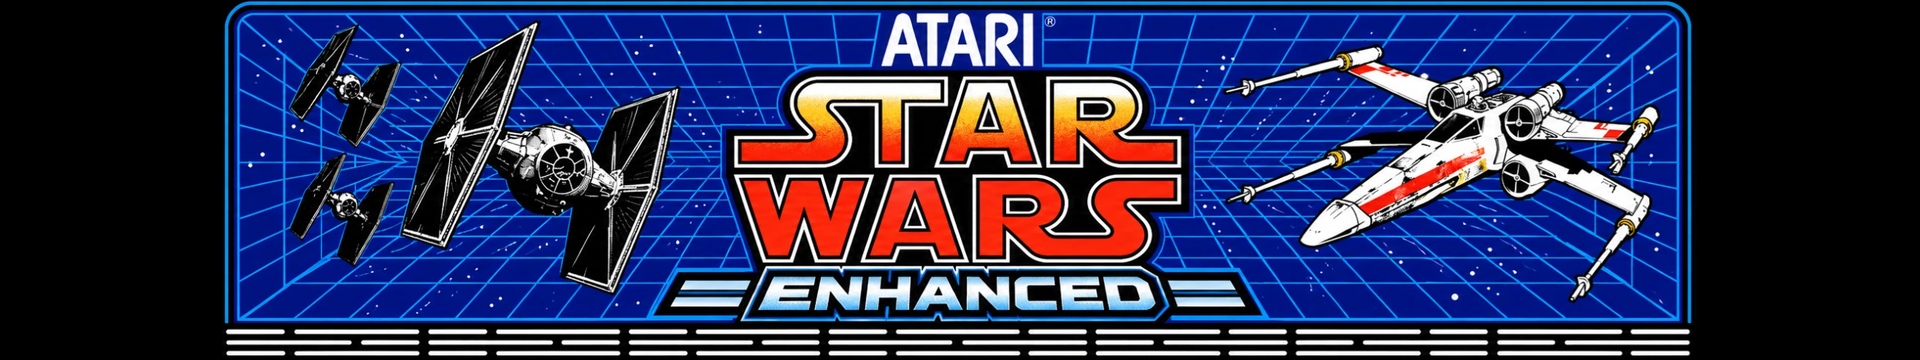
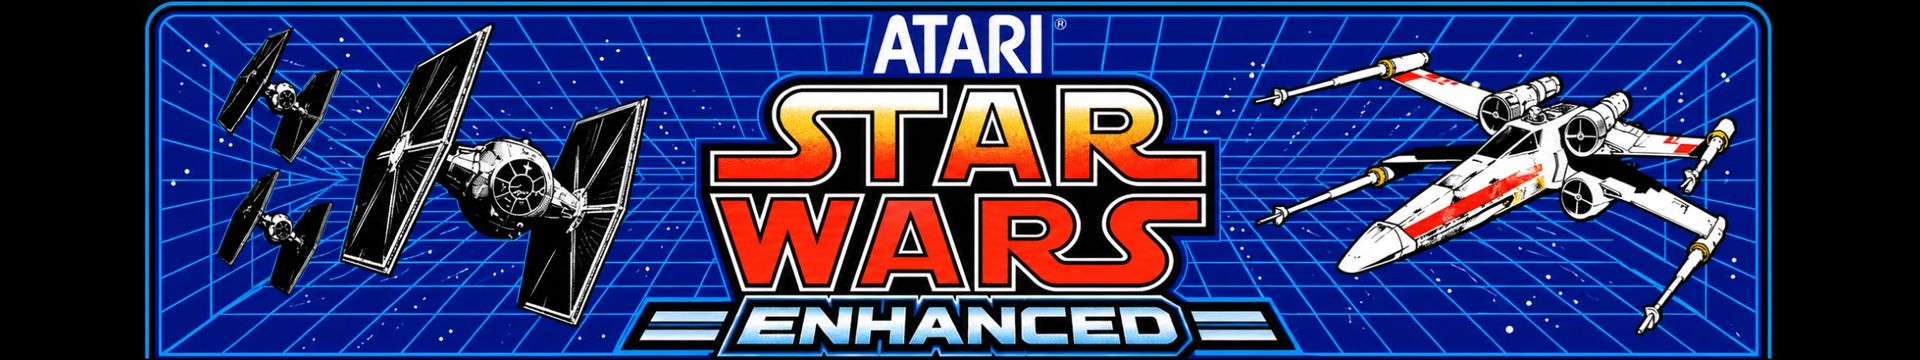
Marquee: the owner's second artwork, version 0.2.1

diff --git a/docs/STATUS.md b/docs/STATUS.md
@@ -358,6 +358,8 @@ sobald das Menü neu startet (nach dem Verlassen des Spiels). Nicht geprüft
 am Gerät, auch nicht, ob der längere Titel des Testmenüs (jetzt Größe 90
 statt 110) in die Breite passt.
 
+Marquee erneuert (zweites Artwork des Besitzers, ohne die Streifen unten; 1636 von 1920 breit, Rest schwarz), Version 0.2.1. **Noch nicht auf dem Automaten**, der war aus: beim nächsten Mal `sh tools/deploy.sh` und `dist/swenhanced-0.2.1.vpk` nach `/persistent/games/packages/` (dort liegt noch 0.2.0).
+
 Paketdatei: `sh tools/pack.sh` (in WSL, nach dem Pi-Build) schreibt
 `dist/swenhanced-<version>.vpk` mit dem `vp-pack` des SDK (dessen Skript und
 das Manifest werden dabei von CR LF befreit, die ein Windows-Checkout
